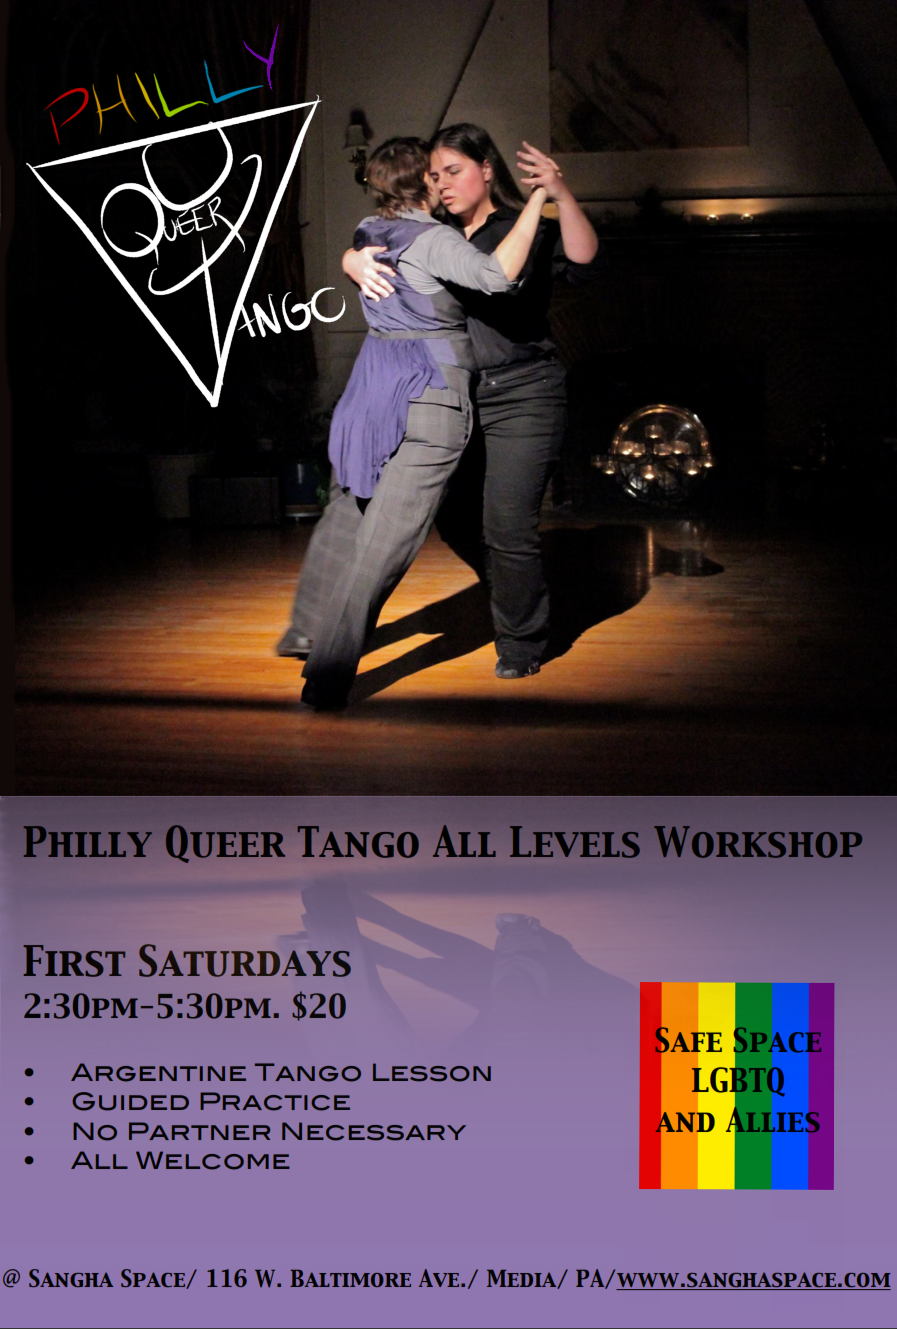
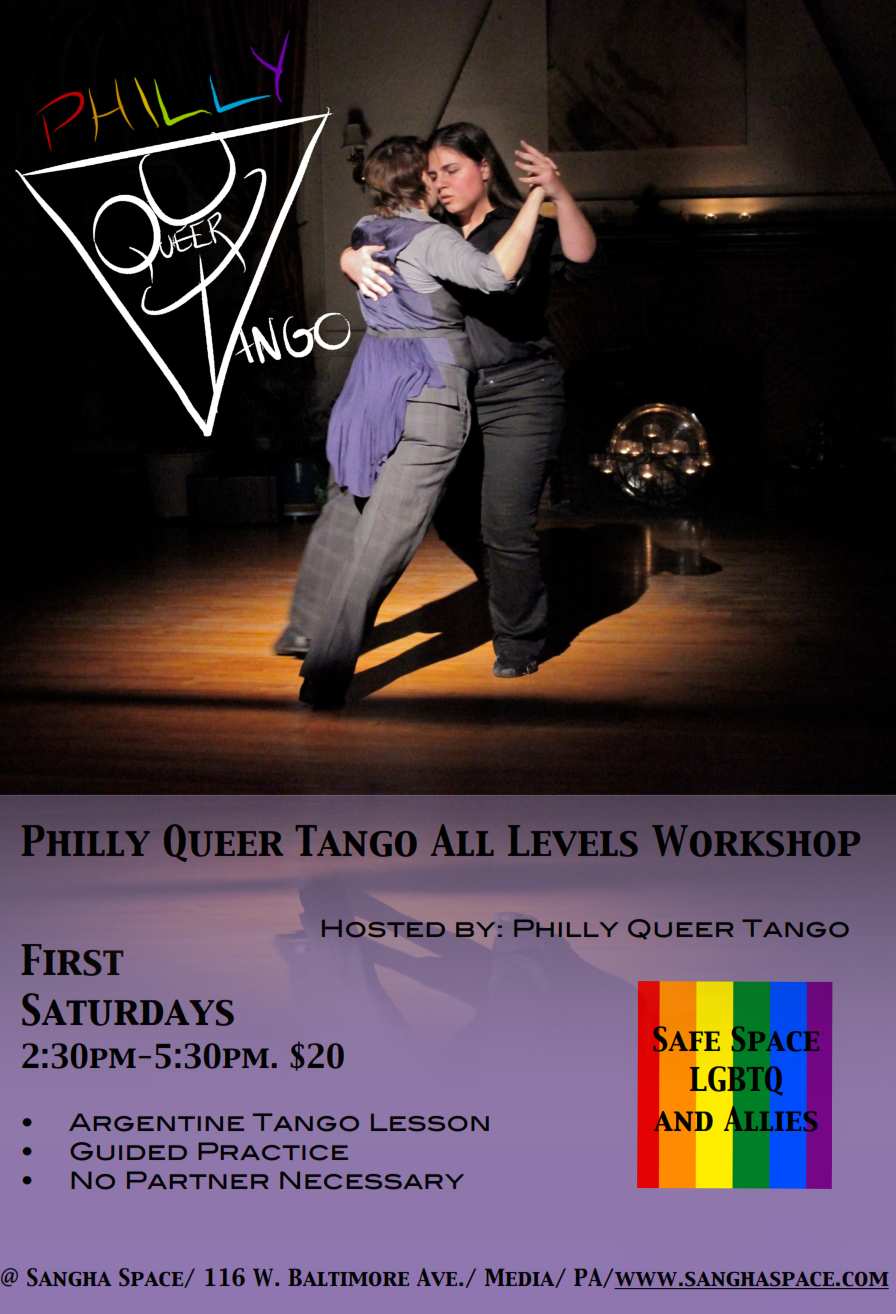
updated flyer image
updated to new flyer image, made some css tweaks on "images" id.

diff --git a/css/myStyles.css b/css/myStyles.css
@@ -53,16 +53,11 @@ a:active {
 }
 
 #images {
-	background: -webkit-linear-gradient(left, rgba(222,128,255,0.2), rgba(38, 0, 51, 0.8)); /* For Safari 5.1 to 6.0 */
-    background: -o-linear-gradient(right, rgba(222,128,255,0.2), rgba(38, 0, 51, 0.8)); /* For Opera 11.1 to 12.0 */
-    background: -moz-linear-gradient(right, rgba(222,128,255,0.2), rgba(38, 0, 51, 0.8)); /* For Firefox 3.6 to 15 */
-    background: linear-gradient(to right, rgba(222,128,255,0.2), rgba(38, 0, 51, 0.8)); /* Standard syntax (must be last) */
-	padding-top: 40px;
-	padding-bottom: 40px;
-	box-shadow: 10px 20px 20px 10px black;
-    border-radius: 20px;
+	/*border-radius: 20px;
+	box-shadow: rgba(0,0,0,0.2) 0px 2px 3px, inset rgba(0,0,0,0.2) 0px -1px 2px; 
+	border:10px solid #13001a; */
  }
- 
+
 #btn-custom {
   background-color: hsl(0, 0%, 22%) !important;
   background-repeat: repeat-x;
@@ -113,12 +108,23 @@ a:active {
 }
 
 #imgJumbo {
-	background: -webkit-linear-gradient(left, rgba(222,128,255,0), rgba(38, 0, 51, 0.8)); /* For Safari 5.1 to 6.0 */
-    background: -o-linear-gradient(right, rgba(222,128,255,0), rgba(38, 0, 51, 0.8)); /* For Opera 11.1 to 12.0 */
-    background: -moz-linear-gradient(right, rgba(222,128,255,0), rgba(38, 0, 51, 0.8)); /* For Firefox 3.6 to 15 */
-    background: linear-gradient(to right, rgba(222,128,255,0), rgba(38, 0, 51, 0.8)); /* Standard syntax (must be last) */
+	background: -webkit-linear-gradient(left, rgba(222,128,255,0.4), rgba(38, 0, 51, 0.8)); /* For Safari 5.1 to 6.0 */
+    background: -o-linear-gradient(right, rgba(222,128,255,0.2), rgba(38, 0, 51, 0.8)); /* For Opera 11.1 to 12.0 */
+    background: -moz-linear-gradient(right, rgba(222,128,255,0.2), rgba(38, 0, 51, 0.8)); /* For Firefox 3.6 to 15 */
+    background: linear-gradient(to right, rgba(222,128,255,0.2), rgba(38, 0, 51, 0.8)); /* Standard syntax (must be last) */
+	box-shadow: 10px 20px 20px 10px black;
 	padding-top: 40px;
 	padding-bottom: 40px;
+	padding-left: 20px;
+	padding-right: 40px;
+	background-size: cover;
+}
+
+.jumbotron {
+  box-shadow: 10px 0 20px 10px black;
+  opacity: 0.99;
+  filter: alpha(opacity=99);
+  z-index: 99;
 }
 
 h1 {
@@ -182,3 +188,4 @@ body {
   border-width: 5px;
   border-style: solid;
 }
+

diff --git a/index.html b/index.html
@@ -41,9 +41,11 @@
 		<div class="row-centered">
 			<h1 id="pageTitle" class="text-center">Philly Queer Tango</h1>
 		</div>
-<section id="main" class="container">
-	<div class ="jumbotron container-fluid row-fluid" id="jumbo">
-		<div style="text-align: center;" id="images"><IMG SRC="images/pqtflyer.png" ALT="Image of Philly Queer Tango flyer">
+<section id="main" class="container container-fluid">
+	<div class ="jumbotron row-fluid" id="jumbo">
+		<div class ="jumbotron row-fluid" id="imgJumbo">
+			<div class="img-rounded img-responsive" style="text-align: center;" id="images"><img src="images/pqtflyer.png" alt="Image of Philly Queer Tango flyer">
+			</div>
 		</div>
 	</div>
 </section>	
